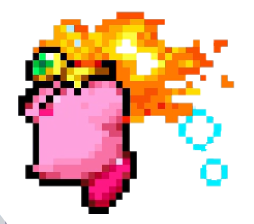
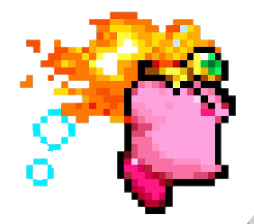
feat: 實作卡比火能力變身系統與 HotHead 吸入互動
- 新增能力系統：在 `Kirby.h` 增加 `CurrentAbility` (Spark, Fire) 與 `Form::FireFat`, `Form::FireForm` 狀態。
- 修復敵人吸入問題：為 `HotHead` 新增 `BEING_INHALED` 狀態，當被卡比吸入時中斷原本 AI 狀態機，確保能正確被吸力牽引並吞食。
- 實作變身與棄置機制：
  1. 卡比吸入 HotHead 後進入 `FireFat`，按「下鍵」正式變身為 `FireForm`。
  2. 在 `FireForm` 下按「V鍵」可棄置能力，朝前方吐出 `StarBullet` 星星彈並恢復為 `Normal` 狀態。
- 升級火焰攻擊渲染：
  1. 新增獨立子物件 `fireEffect` (QGraphicsPixmapItem) 處理噴火特效。
  2. 卡比噴火時本體維持 `attack` 蓄力姿態，由 `fireEffect` 在前方獨立播放火焰循環動畫。
  3. 精準校正左右面朝方向的火焰特效偏移量，確保朝左噴射時火根能完美對齊卡比嘴部。

diff --git a/Kirby.cpp b/Kirby.cpp
@@ -33,6 +33,10 @@ Kirby::Kirby() {
 
     // 3. 賦予演員這張圖片 (此時尚未加入場景，由 MainWindow 負責加入)
     setPixmap(kirbyImg);
+
+    fireEffect = new QGraphicsPixmapItem(this);
+    fireEffect->setVisible(false);
+    fireEffect->setZValue(1);
 }
 
 
@@ -53,6 +57,12 @@ void Kirby::setDown(bool down) {
         
         // 這裡可以播放一個「變身成功」的小特效
     }
+    else if (isDown && currentForm == Form::FireFat) {
+        currentForm = Form::FireForm;    // 正式變身為 FireForm
+        hasObjectInMouth = false;        // 東西吞下去了，嘴巴空了
+        this->setScale(1.0);
+        qDebug() << "Kirby evolved to Fire Form!";
+    }
 }
 
 
@@ -64,7 +74,10 @@ void Kirby::stopInhaling(){ isInhaling = false; }
 
 void Kirby::startInhaling() {
     // 蹲下或飛行時不能吸氣
-    if (!isDown && !isFlying) isInhaling = true;
+    if (!isDown && !isFlying) {
+        if (!isInhaling) frameCounter = 0;
+        isInhaling = true;
+    }
     isDashing = false;
 }
 
@@ -107,7 +120,7 @@ void Kirby::update() {
     qreal currentPhysicalWidth;
     qreal currentPhysicalHeight ;
 
-    if (isFlying || isSpitting || currentForm == Form::SparkyFat) { // 將 SparkyFat 加入判斷：變胖時使用大尺寸 Hitbox
+    if (isFlying || isSpitting || currentForm == Form::SparkyFat || currentForm == Form::FireFat) { // 將胖卡比狀態加入判斷：變胖時使用大尺寸 Hitbox
         currentPhysicalWidth = 180; 
         currentPhysicalHeight = 180; 
     }else {
@@ -276,8 +289,8 @@ void Kirby::handleAttack() {
  * @note 不使用單純的內建碰撞，而是手動計算距離 (dx)，給予敵人一個指向卡比的加速度 (vx)。
  */
 void Kirby::processInhale(QList<Enemy*> &enemies) {
-    // Sparky 形態時按 X 只是釋放閃電，不進行敵人吸引
-    if (currentForm == Form::Sparky) return;
+    // Sparky 或 FireForm 形態時按 X 只是發動技能，不進行敵人吸引
+    if (currentForm == Form::Sparky || currentForm == Form::FireForm) return;
     if (!isInhaling) return;
 
     qreal inhaleRange = 300;  // 吸氣有效長度
@@ -329,11 +342,15 @@ void Kirby::processInhale(QList<Enemy*> &enemies) {
                 e->setIsDead(true);
 
                 // 2. 更新卡比狀態
-                // 假設你的 Enemy 類別有一個 getType() 函數
                 if (e->getEnemyType() == "Sparky") {
                     currentForm = Form::SparkyFat; // 進入準備變身狀態
+                    currentAbility = CurrentAbility::Spark;
+                } else if (e->getEnemyType() == "HotHead") {
+                    currentForm = Form::FireFat;
+                    currentAbility = CurrentAbility::Fire;
                 } else {
                     currentForm = Form::Normal;
+                    currentAbility = CurrentAbility::None;
                 }
 
                 setFullStatus(true); // 這會設定 hasObjectInMouth = true
@@ -389,7 +406,17 @@ void Kirby::setFullStatus(bool full) {
 }
 
 void Kirby::discardAbility() {
+    if (currentForm == Form::FireForm) {
+        // (進階) 在卡比前方生成一個代表火能力的「星星彈」向前方飛出。
+        StarBullet *star = new StarBullet(x(), y()+30, isFacingRight);
+        if (scene()) {
+            scene()->addItem(star);
+            emit starFired(star);
+        }
+    }
+
     currentForm = Form::Normal;
+    currentAbility = CurrentAbility::None;
     hasObjectInMouth = false;
     isInhaling = false;
     isSpitting = false;
@@ -484,14 +511,19 @@ void Kirby::updateSprite() {
         frame = (frameCounter / 10) % 2 + 1;
     }
     // 3. 吸氣狀態
-    else if (isInhaling && currentForm != Form::Sparky ) {
-        action = "attack";
-        frame = 0;
-    }
     else if (isInhaling && currentForm == Form::Sparky ) {
         action = "attack";
         frameCounter++;
         frame = (frameCounter / 10) % 2 + 1;
+    }
+    else if (isInhaling && currentForm == Form::FireForm) {
+        frameCounter++;
+        action = "attack";
+        frame = 0;
+    }
+    else if (isInhaling) {
+        action = "attack";
+        frame = 0;
     }
     // 4. 地面蹲下
     else if (isDown && isOnGround) {
@@ -549,6 +581,25 @@ void Kirby::updateSprite() {
             path = QString("%1Kirby_spark_%2(%3)_%4.png").arg(folder).arg(action).arg(sparkFrame).arg(dir);
         }
     } 
+    else if (currentForm == Form::FireForm) {
+        QString folder = ":/Project2_Dataset/Image/Kirby_fire/"; 
+        if (action == "jump") {
+            path = QString("%1kirbyfire_stop_%2.png").arg(folder).arg(dir);
+        }
+        else if (action == "attack") {
+            path = QString("%1kirbyfire_attack_%2.png").arg(folder).arg(dir);
+        }
+        else if (frame == 0) {
+            path = QString("%1kirbyfire_%2_%3.png").arg(folder).arg(action).arg(dir);
+        }
+        else {
+            int fireFrame = (frameCounter / 10) % 2 + 1;
+            if (action == "run") {
+                fireFrame = (frameCounter / 7) % 3 + 1; // run(1) to run(3)
+            }
+            path = QString("%1kirbyfire_%2(%3)_%4.png").arg(folder).arg(action).arg(fireFrame).arg(dir);
+        }
+    }
     else {
         // Normal 形態：保持你原本的路徑規則 (kirby_run_1_R.png)
         QString folder = ":/Project2_Dataset/Image/Kirby_normal/";
@@ -596,6 +647,26 @@ void Kirby::updateSprite() {
         // 套用偏移，這不會移動碰撞盒，只會移動視覺上的圖片
         setOffset(xOffset, yOffset);
 
+        // --- 火焰特效處理 (進階呈現) ---
+        if (fireEffect) {
+            if (isInhaling && currentForm == Form::FireForm && frameCounter >= 15) {
+                fireEffect->setVisible(true);
+                int fireFrame = ((frameCounter - 15) / 4) % 3 + 1;
+                QString firePath = QString(":/Project2_Dataset/Image/Kirby_fire/kirbyfire_fire(%1)_%2.png")
+                                    .arg(fireFrame).arg(dir);
+                QPixmap firePix(firePath);
+                
+                firePix = firePix.scaledToHeight(140, Qt::SmoothTransformation);
+                fireEffect->setPixmap(firePix);
+                
+                // 定位在卡比前方
+                qreal effectXOffset = (dir == "R") ? 100 : (30 - firePix.width()); 
+                qreal effectYOffset = baseHeight - firePix.height();
+                fireEffect->setPos(effectXOffset, effectYOffset);
+            } else {
+                fireEffect->setVisible(false);
+            }
+        }
 
     } else {
         // Debug 用：如果路徑出錯，至少知道是哪張圖沒讀到

diff --git a/HotHead.cpp b/HotHead.cpp
@@ -62,6 +62,26 @@ HotHead::HotHead(QGraphicsItem *player, QGraphicsItem *parent)
 void HotHead::update() {
     if (isDead) return;
 
+    if (isInhaled) {
+        if (currentState != BEING_INHALED) {
+            currentState = BEING_INHALED;
+        }
+    }
+
+    if (currentState == BEING_INHALED) {
+        if (targetPlayer != nullptr) {
+            qreal dist = qAbs(targetPlayer->x() - this->x());
+            if (dist < 20) { 
+                setIsDead(true);
+                setVisible(false);
+                return;
+            }
+        }
+        handlePhysics(60, 60);
+        updateSprite();
+        return;
+    }
+
     switch (currentState) {
     case PATROL:
         checkPlayerDistance();
@@ -153,6 +173,11 @@ void HotHead::updateSprite() {
     frameCounter += 1;
 
     switch (currentState) {
+    case BEING_INHALED:
+        setPixmap(facingDirection == 1 ? runRight : runLeft);
+        if (fireEffect) fireEffect->setVisible(false);
+        break;
+
     case PATROL:
         setPixmap(facingDirection == 1 ? runRight : runLeft);
         break;

diff --git a/Kirby.h b/Kirby.h
@@ -40,11 +40,21 @@ signals:
 public:
 
 
+    enum class CurrentAbility {
+        None,
+        Spark,
+        Fire
+    };
+
     enum class Form {
         Normal,     // 普通狀態
         SparkyFat,  // 吃掉 Sparky 變胖了 (準備變身)
-        Sparky      // 已經獲得 Spark 技能 (變身完成)
+        Sparky,     // 已經獲得 Spark 技能 (變身完成)
+        FireFat,    // 吃掉 HotHead 變胖了 (準備變身)
+        FireForm    // 已經獲得 Fire 技能 (變身完成)
     };
+
+    CurrentAbility currentAbility = CurrentAbility::None;
 
 
 
@@ -185,6 +195,9 @@ private:
     
     // [新增] 控制地圖寬度的變數，到了stage2可用changeWidth(int width)改變
     int mapwidth = 4860;
+
+    // [新增] 火焰特效物件
+    QGraphicsPixmapItem *fireEffect = nullptr;
 
 };
 

diff --git a/HotHead.h b/HotHead.h
@@ -52,7 +52,8 @@ private:
         CHASE,
         CHARGE,
         FIRE,
-        COOLDOWN
+        COOLDOWN,
+        BEING_INHALED
     };
 
     void updateSprite();
